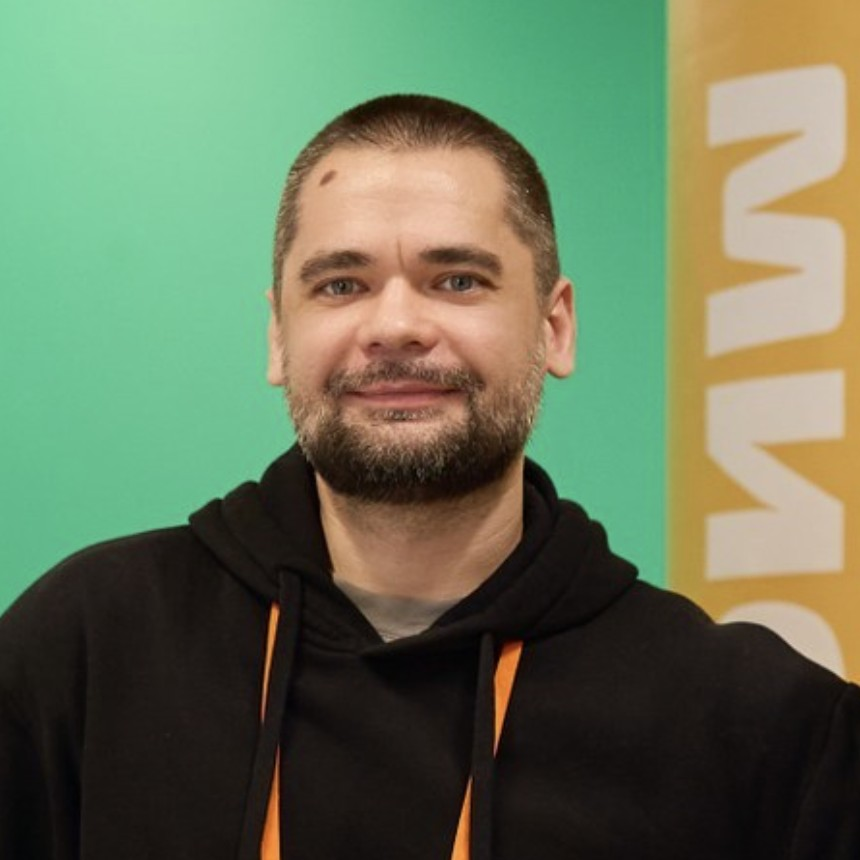
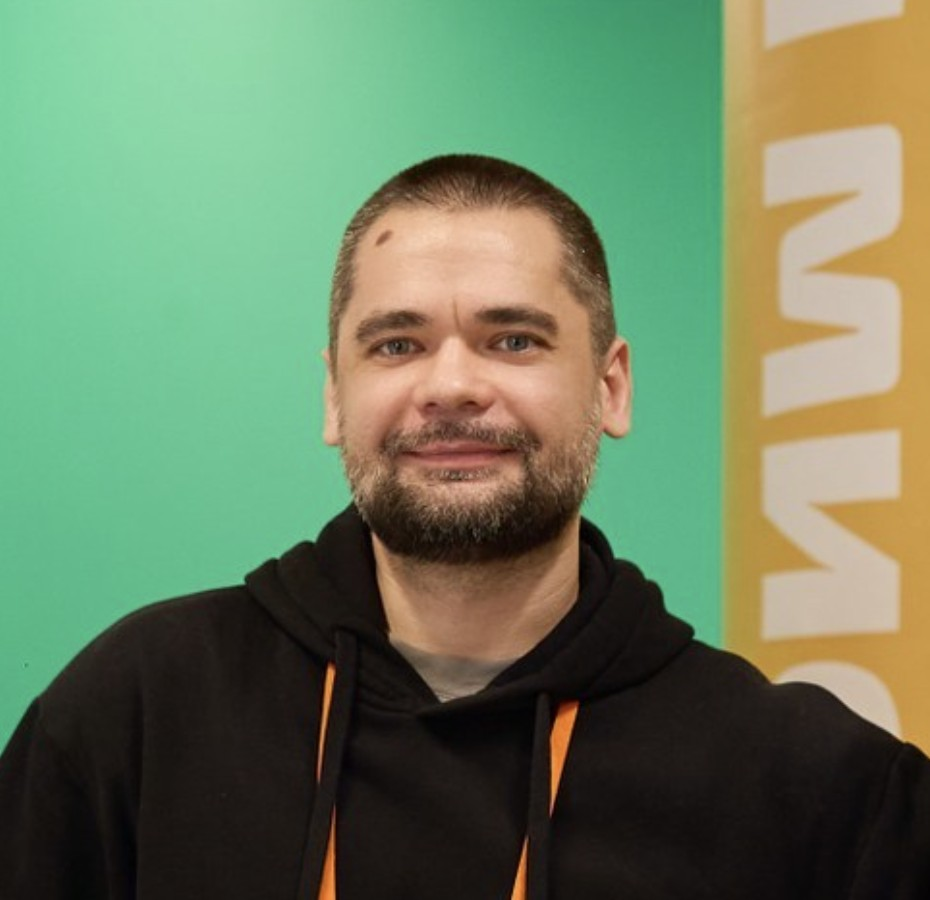
Use the new portrait crop

diff --git a/index.html b/index.html
@@ -21,7 +21,7 @@
       rel="stylesheet"
     />
     <!-- Bump ?v= on every change to styles.css or app.js so browsers drop the cached copy. -->
-    <link rel="stylesheet" href="./styles.css?v=12" />
+    <link rel="stylesheet" href="./styles.css?v=13" />
   </head>
   <body>
     <header class="page-header">
@@ -108,6 +108,6 @@
       <button type="button" id="lightbox-close" class="lightbox-close">×</button>
     </dialog>
 
-    <script src="./app.js?v=12" type="module"></script>
+    <script src="./app.js?v=13" type="module"></script>
   </body>
 </html>
